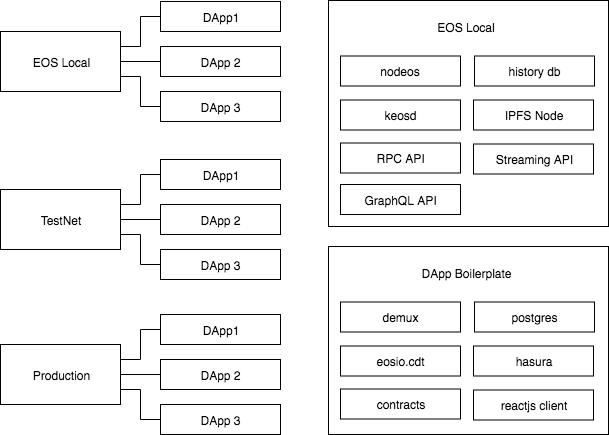
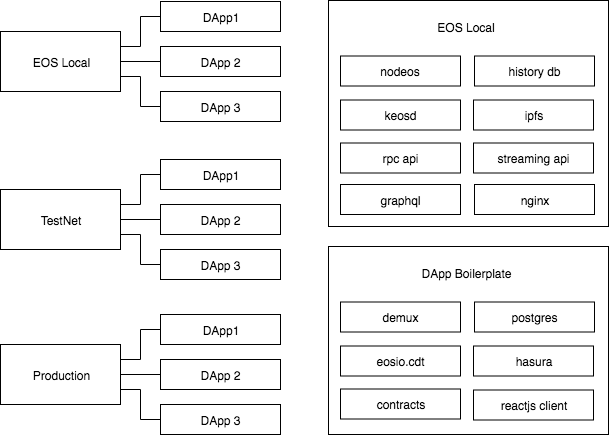
docs(readme): update documentation
(cherry picked from commit 544059183f4e38e1d7cb346e9e6ce2092a7db401)

diff --git a/readme.md b/readme.md
@@ -27,6 +27,7 @@ EOS local exposes all APIs provided by EOS Costa Rica and other BPs on the TestN
 It allows you to develop your application running the same APIs services you will use in production in your computer.
 
 It has a companion project that serves as a starter boilerplate your dApp.
+https://github.com/eoscostarica/eos-dapp-boilerplate 
 
 
 EOS Local is a community-driven project led by EOS Costa Rica. We welcome contributions of all sorts. There are many ways to help, from reporting issues, proposing features, improving documentation, contributing code, design/ux proposals, etc.
@@ -64,7 +65,16 @@ EOS Local is a community-driven project led by EOS Costa Rica. We welcome contri
 ## Architecture
 
 <p align="center">
+   Every service/process runs on a separate container.
+</p>
+
+<p align="center">
 	<img src="docs/EOS-Local-Architecture-2.0.png" width="600">
+</p>
+
+
+<p align="center">
+   You can develop multiple dApps using the same EOS Local Network, sharing testing users and machine resources.
 </p>
 
 <p align="center">
@@ -91,14 +101,12 @@ EOS Local is a community-driven project led by EOS Costa Rica. We welcome contri
 
 Basic knowledge about Docker, Docker Compose, EOS and NodeJS is required.
 
+-  Video tutorial [Docker Containers | Learn Docker Basics in 30 Mins](https://www.youtube.com/watch?v=0kwXLcwUw0Q)
+
 **Global Dependencies**
 
 - Docker https://docs.docker.com/install/.   
 At least 10GB RAM (Docker -> Preferences -> Advanced -> Memory -> 10GB or above)
-
-**Optionally**
-- Install node.js v11 on your machine. We recommend using [n](https://github.com/tj/n) or [nvm](https://github.com/creationix/nvm), and [avn](https://github.com/wbyoung/avn) to manage multiple node.js versions on your computer.
-- Yarn https://yarnpkg.com/lang/en/docs/install/.
 
 ## Chain Initialization
 
@@ -117,6 +125,16 @@ Execute `make setup` for:
 - `docker-compose down` stops and removes all containers.
 - `docker-compose restart` restarts all services.
 
+## Recommended aliases
+
+It is useful to have aliases for the `docker` ad `docker-compose` and `cleos` commands since they are use very often.
+
+```
+alias cleos='docker exec eosio cleos --url http://localhost:8888/'
+alias dk='docker'
+alias dc='docker-compose'
+```
+
 ## Directory Structure
 
 ```
@@ -130,7 +148,7 @@ Execute `make setup` for:
 |   |
 |   ├── ngnix/ ......................................... nginx service for routing
 |   |
-|   ├── mongodb/ ....................................... mongodb data
+|   ├── mongo/ ......................................... mongodb data
 |   |
 |   └── eosio/ ......................................... eos node | nodeos
 |       ├── utils/ ..................................... service utilities
@@ -157,26 +175,27 @@ The docker image source code can be found at https://github.com/EOSIO/eos/blob/m
 
 Learn more at https://developers.eos.io/eosio-nodeos/docs/
 
-The eos api is accesible through http://localhost:8888
-
 ### rpc api
 
 https://developers.eos.io/eosio-nodeos/reference
 
-### graphql 
+The eos rpc api is accesible through http://localhost:8888
 
-https://github.com/EOS-BP-Developers/eosio-graphql
-
-### api 
-
-https://github.com/EOS-BP-Developers/eosio-graphql
-
-### mongodb
+### mongo
 
 MongoDB instance for to story hisotry. 
 The eosio::mongo_db_plugin provides archiving of blockchain data into a MongoDB. 
 
 https://developers.eos.io/eosio-nodeos/docs/mongo_db_plugin
+
+### graphql 
+
+https://github.com/EOS-BP-Developers/eosio-graphql
+
+### history api 
+
+https://github.com/CryptoLions/EOS-mongo-history-API
+
 
 ### ngnix
 
@@ -201,13 +220,15 @@ EOS Local comes with 2 EOS nodes running in separate docker containers, you can 
 You can execute commands on any container from you host machine using the `docker-compose exec` command.
 Eg:
 
-`docker-compose exec eosio cleos --url http://localhost:8888/`
+`docker exec eosio cleos --url http://localhost:8888/`
 
 We recomend using declaring alias on your shell configuration  Eg (.bashrc or .zshrc) 
 
 ```
-alias cleos='docker-compose exec eosio cleos --url http://localhost:8888/'
+alias cleos='docker exec eosio cleos --url http://localhost:8888/'
 ```
+
+Notice it uses docker directly thru the `container_name` insted of docker compose, this allows you to invoke it from any path in your computer, you don't have to be a the root dir of eoslocal.
 
 After you have added those lines to your config you can open a new terminal window and run `cleos --help` to test.
 
@@ -215,7 +236,7 @@ After you have added those lines to your config you can open a new terminal wind
 
 You can also login into the containers using the following docker-compose command 
 
-`docker-compose exec eosio bash`
+`docker exec eosio bash`
 
 That will log you in and you will be able to execute cleos directly within the ubuntu server.
 Eg.
